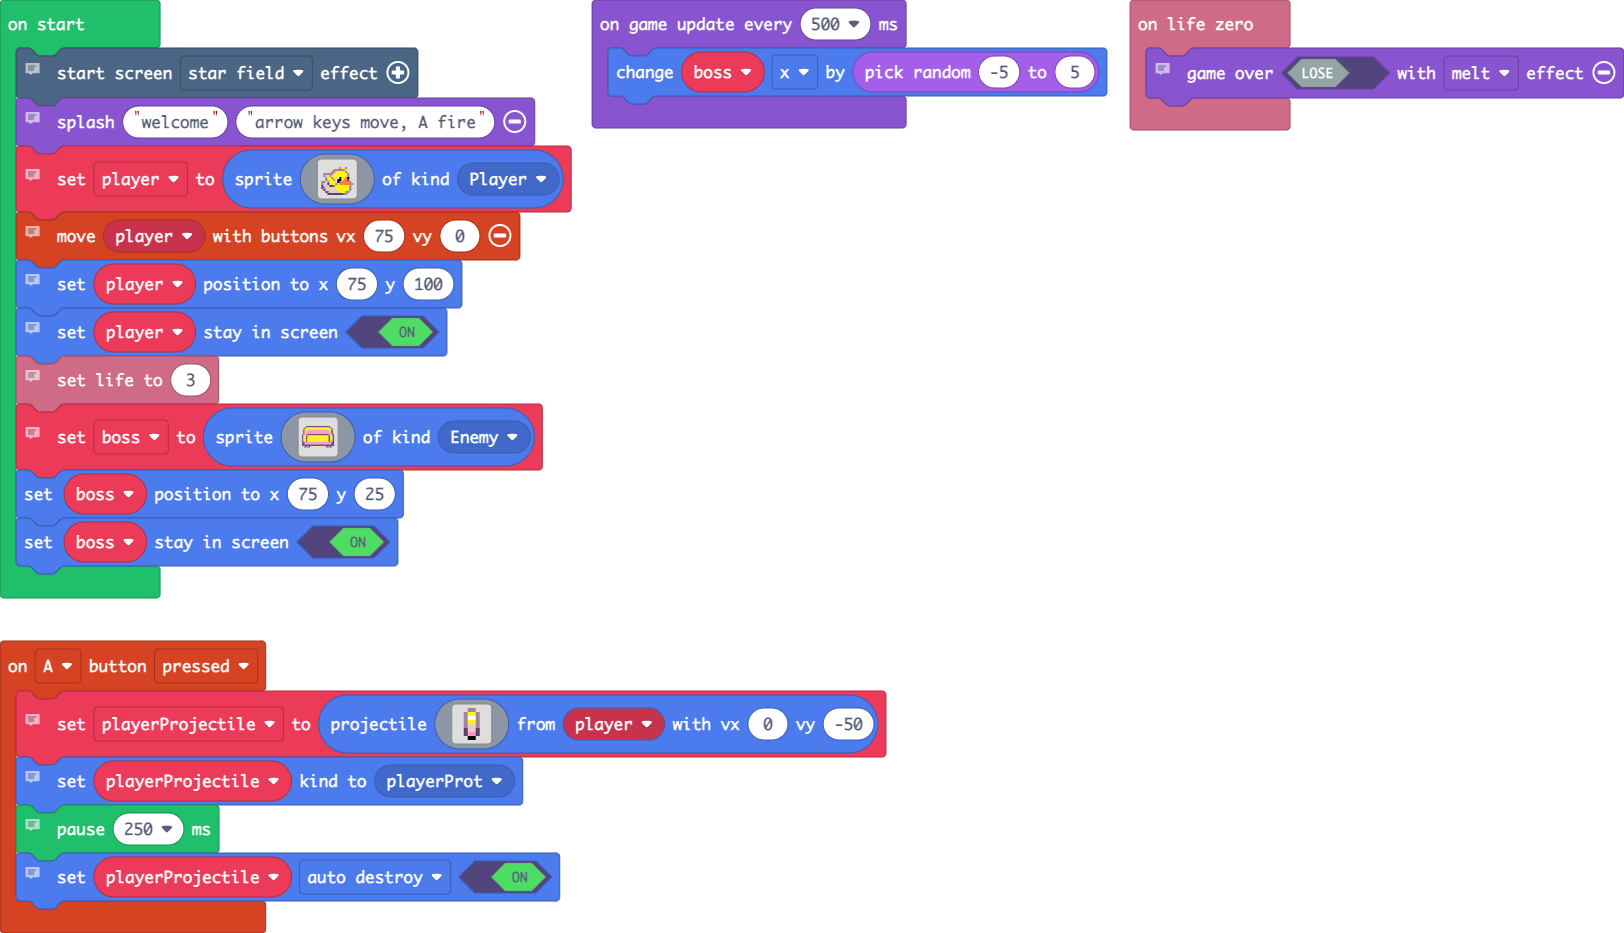
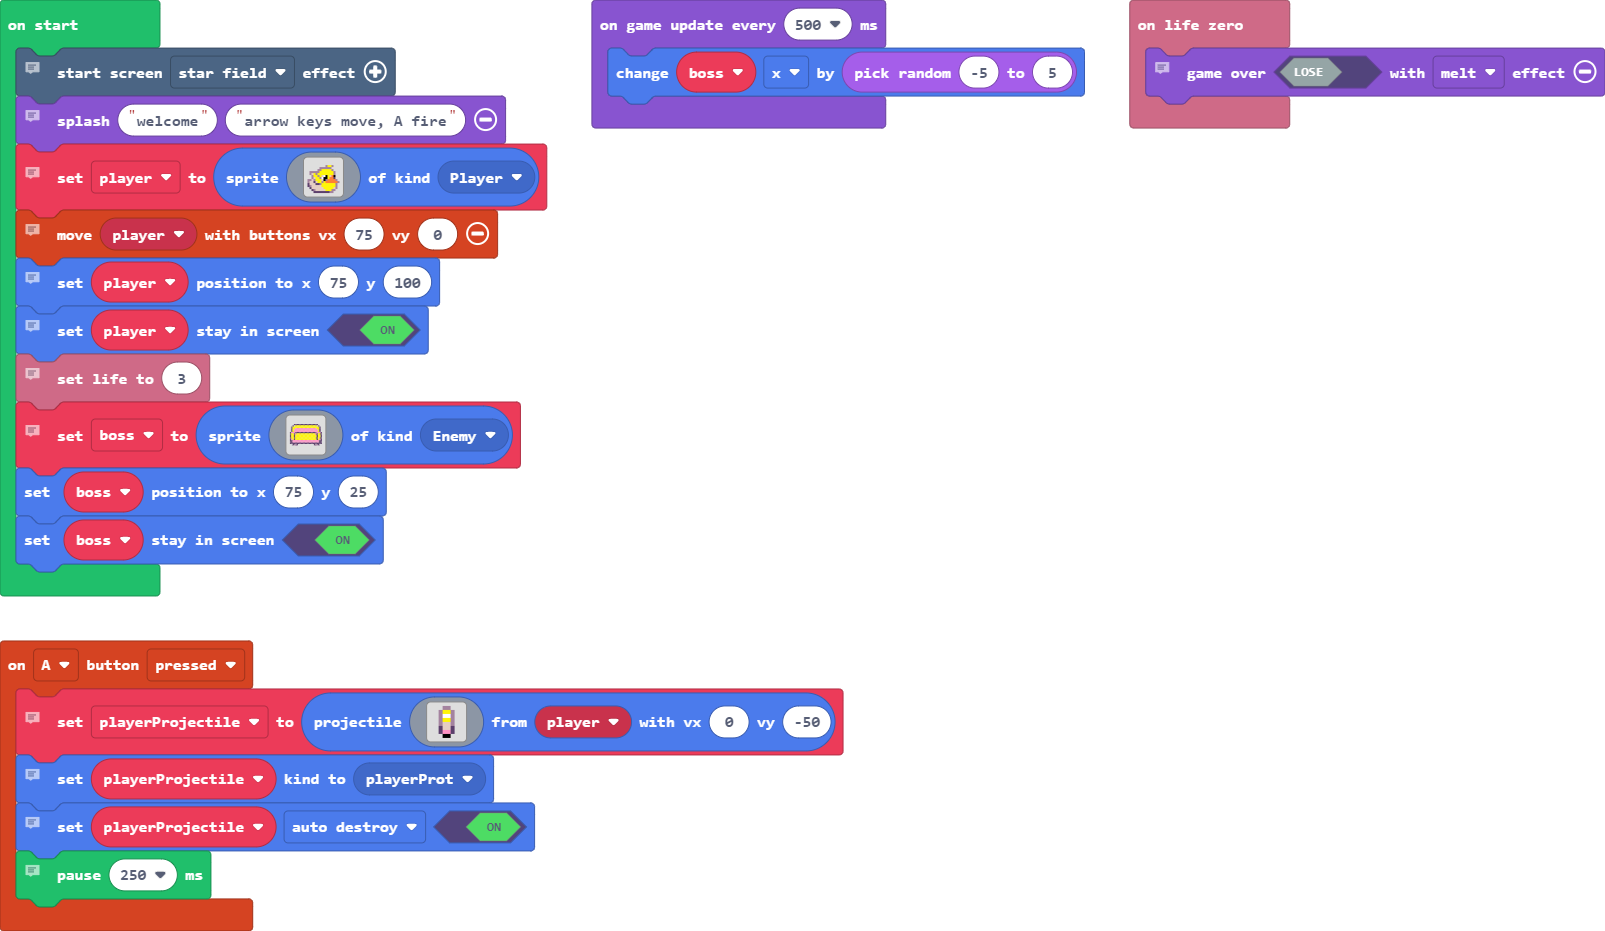
Update pxt.json, main.blocks, main.ts, images.g.jres, images.g.ts

diff --git a/main.ts b/main.ts
@@ -6,10 +6,10 @@ controller.A.onEvent(ControllerButtonEvent.Pressed, function () {
     playerProjectile = sprites.createProjectileFromSprite(assets.image`placeholder2`, player, 0, -50)
     // protjectile different so you dont die when you fire
     playerProjectile.setKind(SpriteKind.playerProt)
-    // not spammy projectiles
-    pause(250)
     // should destroy the player protjectile after passing top
     playerProjectile.setFlag(SpriteFlag.AutoDestroy, true)
+    // not spammy projectiles
+    pause(250)
 })
 info.onLifeZero(function () {
     // game over when life hits 0
@@ -22,7 +22,7 @@ effects.starField.startScreenEffect()
 // the title screen and controls
 game.splash("welcome", "arrow keys move, A fire")
 // player sprite
-player = sprites.create(assets.image`Placeholder`, SpriteKind.Player)
+player = sprites.create(assets.image`playerSprite`, SpriteKind.Player)
 // moving player sprite
 controller.moveSprite(player, 75, 0)
 // player position at start

diff --git a/images.g.ts b/images.g.ts
@@ -79,6 +79,24 @@ c66666c6666666c
 .cccccccccccccc
 .cbbc.....cbbc.
 `;
+            case "image5":
+            case "playerSprite":return img`
+. . . . . . . . . . . . . . . 
+. . . . . . . 3 . . . . . . . 
+. . . . . . c 3 4 . . . . . . 
+. . . . . c d d 1 4 . . . . . 
+. . . . c d d d d 1 4 . . . . 
+. . . c c d 1 1 4 d 4 4 . . . 
+. . . c 3 3 1 1 1 4 4 4 . . . 
+. . c 3 3 3 1 1 1 4 4 4 4 . . 
+. . c 3 3 3 1 1 1 4 4 4 4 . . 
+. . a 3 3 3 1 1 1 4 4 4 4 . . 
+. . a 3 3 3 1 1 1 4 4 4 4 . . 
+. . . a a 3 3 1 1 1 4 4 . . . 
+. . . . . a c 1 1 4 . . . . . 
+. . . . . . c c c . . . . . . 
+. . . . . . . c . . . . . . . 
+`;
         }
         return null;
     })
